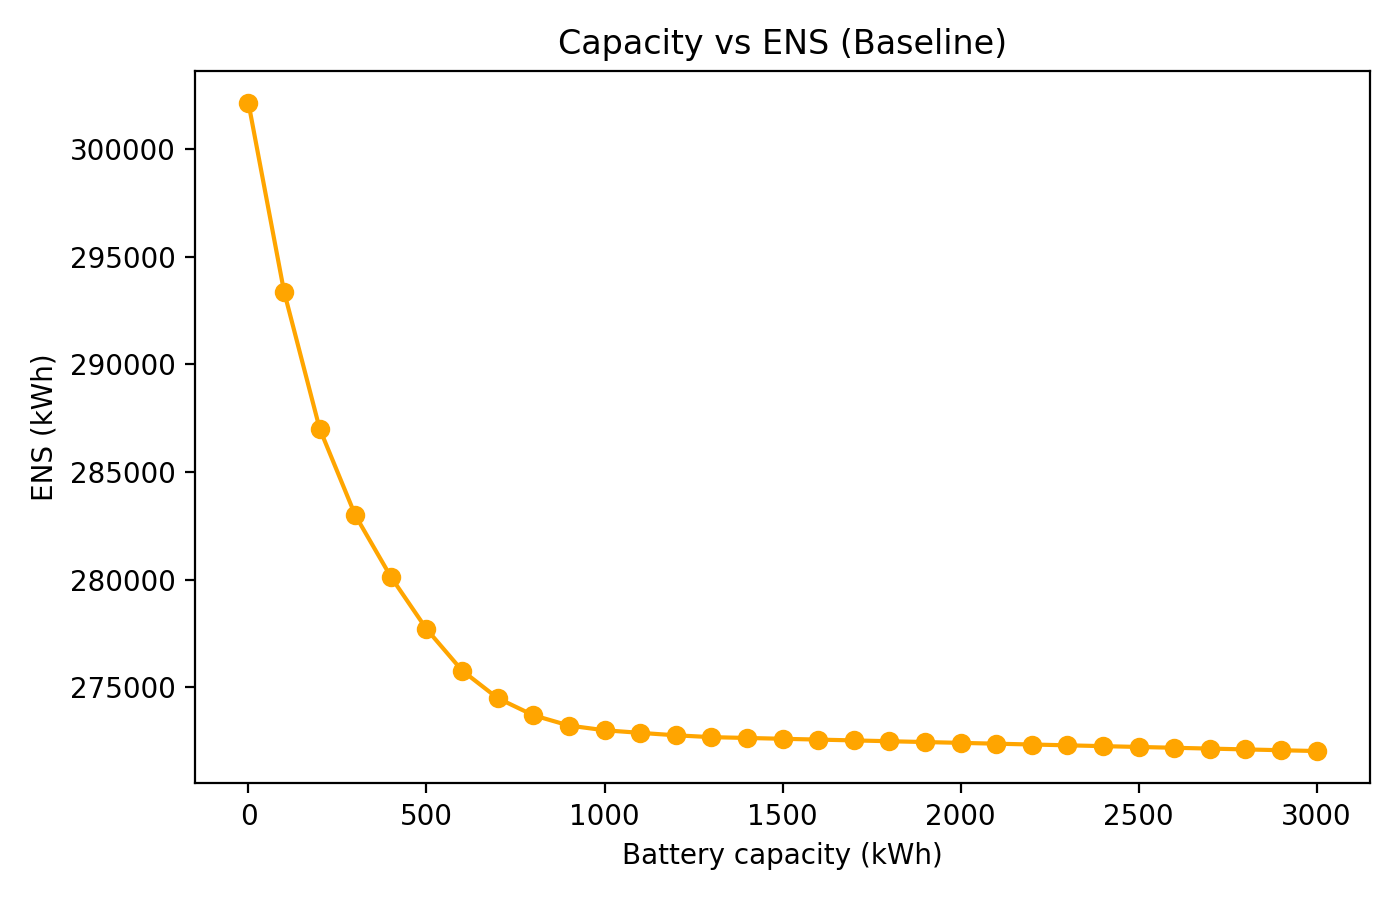
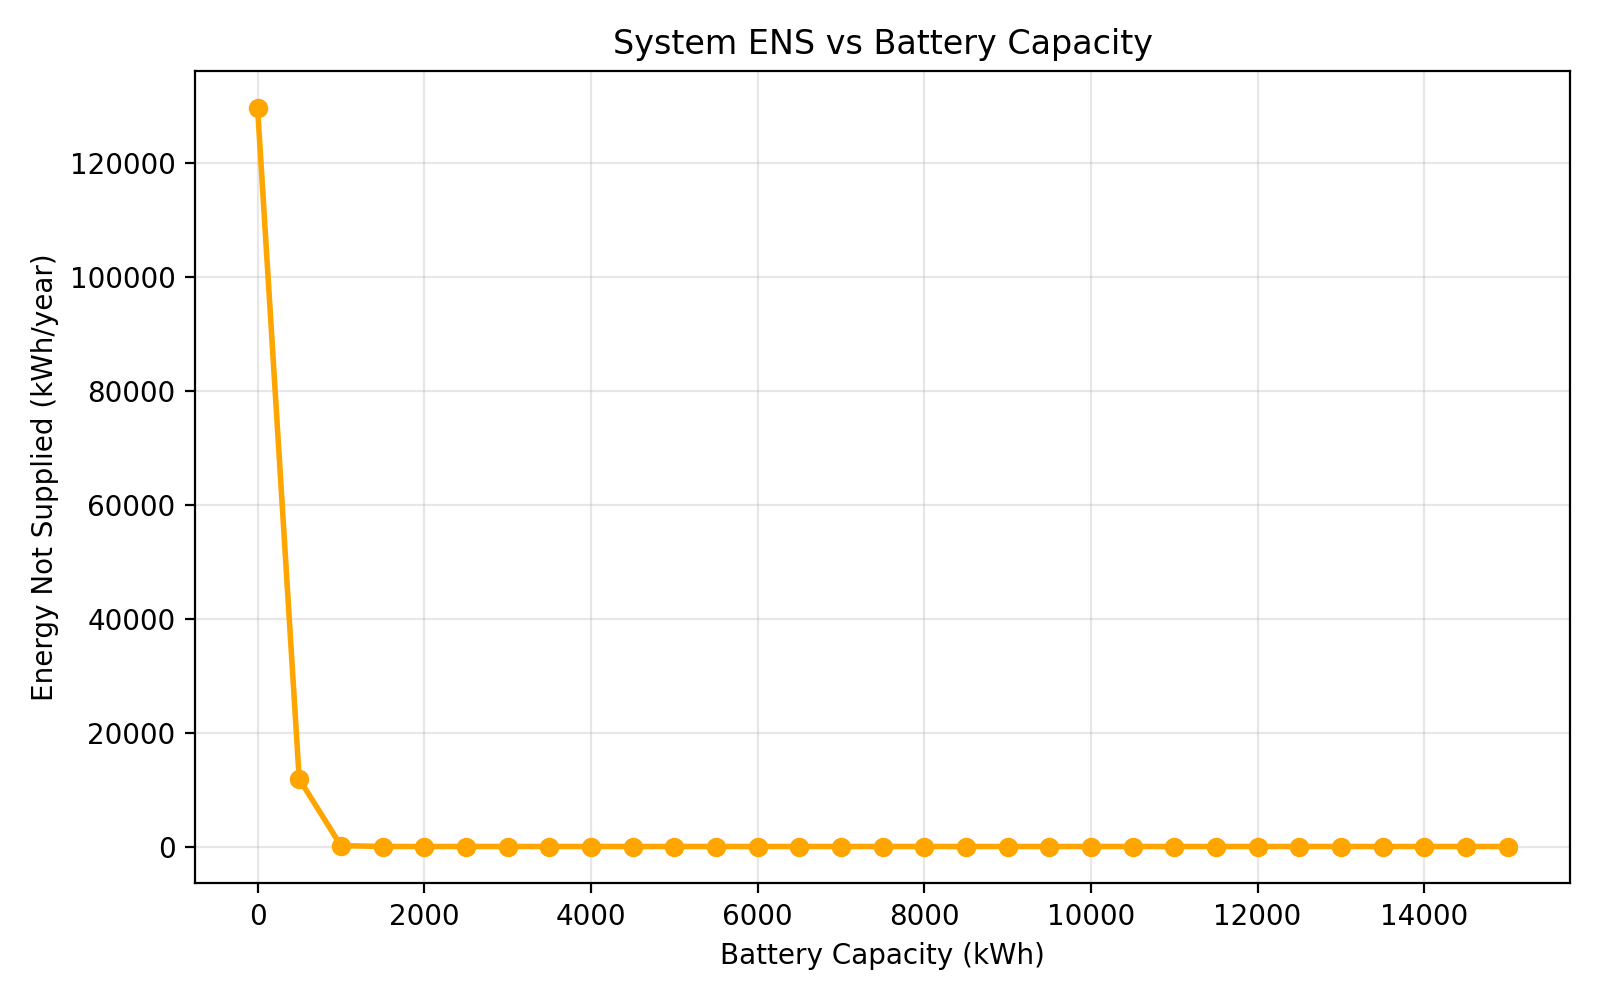
Fix: switch from NASA POWER to GovData weather + clean code (English only, minimal comments)

Changed region(s): [[0.0, 0.0311, 0.9829, 0.9644], [0.0307, 0.7156, 0.1536, 0.7778], [0.215, 0.4044, 0.2457, 0.5289]]

diff --git a/pv_battery_sizing.py b/pv_battery_sizing.py
@@ -3,181 +3,127 @@ import pandas as pd
 import matplotlib.pyplot as plt
 from pathlib import Path
 
-# =========================
-# 1) Config (edit here)
-# =========================
-# Use paths relative to project root
-WEATHER_CSV = "weather_data/nasa_power/nasa_power_merged_2025.csv"
+WEATHER_CSV = "weather_data/govdata/govdata_merged_2025.csv"
 LOAD_CSV    = "eplus_run/results/load_profiles/load_hourly_clean.csv"
 OUT_DIR     = "outputs"
 
-# PV parameters
-PV_CAP_KW = 500.0           # installed PV capacity
-GHI_REF = 1000.0            # W/m2
-TEMP_COEFF = -0.004         # per degC
+PV_CAP_KW = 5000.0
+GHI_REF = 1000.0
+TEMP_COEFF = -0.004
 TEMP_REF = 25.0
 
-# Battery parameters
 ETA_CH = 0.95
 ETA_DIS = 0.95
 SOC_MIN = 0.10
 SOC_MAX = 0.90
-P_CH_MAX_KW = 250.0
-P_DIS_MAX_KW = 250.0
-SOC0 = 0.50                  # initial SOC fraction
+P_CH_MAX_KW = 2500.0
+P_DIS_MAX_KW = 2500.0
+SOC0 = 0.50
 
-# Sizing target
 R_TARGET = 0.99
-CAPACITY_GRID = np.arange(0, 3001, 100)  # kWh
-
-# =========================
+CAPACITY_GRID = np.arange(0, 15001, 500)
 
 
 def load_inputs(weather_csv, load_csv):
-    """
-    Load weather and load data, merge them to hourly frequency.
-    
-    Weather data: daily from NASA POWER
-      - Column: ALLSKY_SFC_SW_DWN (MJ/m2/day) -> convert to GHI (W/m2) hourly
-      - Column: T2M (temperature in C)
-    
-    Load data: hourly from EnergyPlus results
-      - Column: load_kw
-    """
-    
-    # Load weather data
+    """Load weather (govdata, 2025) and load data, merge to hourly."""
     w = pd.read_csv(weather_csv)
     w["Date"] = pd.to_datetime(w["Date"])
     
-    # Normalize dates to start from 1900-01-01 to match load data virtual year
-    # Get unique dates and assign virtual dates
-    unique_dates = sorted(w["Date"].unique())
-    date_map = {old_date: pd.Timestamp("1900-01-01") + pd.Timedelta(days=i) 
-                for i, old_date in enumerate(unique_dates)}
-    w["Date_virtual"] = w["Date"].map(date_map)
+    l = pd.read_csv(load_csv)
+    l["datetime"] = pd.to_datetime(l["datetime"])
     
-    # Expand daily data to hourly by repeating 24 times per day
-    # and distribute GHI across 24 hours (average approach)
-    # First, get unique locations (LAT, LON) - if multiple, we'll average or pick one
+    l["day_of_year"] = l["datetime"].dt.dayofyear
+    l["hour_of_day"] = l["datetime"].dt.hour
+    l["datetime_2025"] = pd.to_datetime("2025-01-01") + pd.to_timedelta(l["day_of_year"] - 1, unit="D") + pd.to_timedelta(l["hour_of_day"], unit="h")
     
     w_hourly_list = []
-    
-    for (lat, lon), group in w.groupby(["LAT", "LON"]):
-        group = group.sort_values("Date_virtual").reset_index(drop=True)
+    for idx, row in w.iterrows():
+        date = row["Date"]
+        gsi_mj_per_day = row["KP_GSR"]
+        ghi_wh_per_day = (gsi_mj_per_day / 3.6) * 1000
         
         hourly_records = []
-        for _, row in group.iterrows():
-            date = row["Date_virtual"]
-            # Create 24 hourly records for this day
-            # Distribute daily GHI across 24 hours using a simple triangular profile
-            ghi_daily_mj = row["ALLSKY_SFC_SW_DWN"]  # MJ/m2/day
-            # Convert MJ/m2/day to daily integral: MJ/m2 * 1e6 J/MJ / 3600 s/h = (MJ/m2) * 277.78 Wh/m2
-            # Split into 24 hours with triangular profile: peak at noon, 0 at night
-            ghi_daily_wh = ghi_daily_mj * 277.78  # Wh/m2 per day
+        for h in range(24):
+            hour_dt = date + pd.Timedelta(hours=h)
+            if 6 <= h < 18:
+                hour_norm = (h - 6) / 12
+                profile = 2 * hour_norm if hour_norm <= 0.5 else 2 * (1 - hour_norm)
+                ghi_wh_this_hour = (ghi_wh_per_day / 6) * profile
+            else:
+                ghi_wh_this_hour = 0.0
             
-            for h in range(24):
-                hour_dt = date + pd.Timedelta(hours=h)
-                # Triangular GHI profile: 0 before 6am, peak at noon, 0 after 6pm
-                hour_of_day = h
-                if 6 <= hour_of_day <= 18:
-                    if hour_of_day < 12:
-                        profile_factor = (hour_of_day - 6) / 6  # 0 to 1 from 6am to noon
-                    else:
-                        profile_factor = (18 - hour_of_day) / 6  # 1 to 0 from noon to 6pm
-                    # Total daylight hours in profile: 12 hours (6am to 6pm)
-                    # With triangular: integral is 0.5 * 12 = 6 hour-equivalents
-                    ghi_this_hour = (ghi_daily_wh / 6) * profile_factor  # W/m2
-                else:
-                    ghi_this_hour = 0.0
-                
-                hourly_records.append({
-                    "datetime": hour_dt,
-                    "ghi": max(0, ghi_this_hour),
-                    "temp_air": row["T2M"]
-                })
+            hourly_records.append({
+                "datetime": hour_dt,
+                "ghi": max(0, ghi_wh_this_hour),
+                "temp_air": 23.0
+            })
         
         w_hourly_list.append(pd.DataFrame(hourly_records))
     
     if w_hourly_list:
         w_hourly = pd.concat(w_hourly_list, ignore_index=True)
-        # If multiple locations, average by datetime
-        w_hourly = w_hourly.groupby("datetime").agg({
-            "ghi": "mean",
-            "temp_air": "mean"
-        }).reset_index()
     else:
         w_hourly = pd.DataFrame(columns=["datetime", "ghi", "temp_air"])
     
-    # Load load data
-    l = pd.read_csv(load_csv)
-    l["datetime"] = pd.to_datetime(l["datetime"])
-    
-    # Merge on datetime
-    df = pd.merge(w_hourly, l, on="datetime", how="inner").sort_values("datetime").reset_index(drop=True)
+    w_hourly.rename(columns={"datetime": "datetime_2025"}, inplace=True)
+    df = pd.merge(w_hourly, l[["datetime_2025", "load_kw"]], on="datetime_2025", how="inner")
+    df.rename(columns={"datetime_2025": "datetime"}, inplace=True)
+    df = df.sort_values("datetime").reset_index(drop=True)
     df = df[["datetime", "ghi", "temp_air", "load_kw"]].copy()
     
-    # Basic cleaning
     df["ghi"] = df["ghi"].fillna(0).clip(lower=0)
     df["load_kw"] = df["load_kw"].fillna(df["load_kw"].mean()).clip(lower=0)
     df["temp_air"] = df["temp_air"].interpolate(limit_direction="both").fillna(df["temp_air"].mean())
-    
-    print(f"Loaded data: {len(df)} hourly records from {df['datetime'].min()} to {df['datetime'].max()}")
     
     return df
 
 
 def pv_power_kw(ghi, temp_air, pv_cap_kw, ghi_ref=1000, temp_coeff=-0.004, temp_ref=25):
-    # simple linear temperature correction
     p = pv_cap_kw * (ghi / ghi_ref) * (1 + temp_coeff * (temp_air - temp_ref))
     return np.clip(p, 0, pv_cap_kw)
 
 
 def simulate_once(df, batt_kwh):
     n = len(df)
-    dt = 1.0  # hour
-
+    dt = 1.0
+    
     e_min = SOC_MIN * batt_kwh
     e_max = SOC_MAX * batt_kwh
     e = SOC0 * batt_kwh if batt_kwh > 0 else 0.0
-
+    
     soc_series = np.zeros(n)
     unmet = np.zeros(n)
-
     pv = pv_power_kw(df["ghi"].values, df["temp_air"].values, PV_CAP_KW)
-
+    
     for t in range(n):
         load = df.at[t, "load_kw"]
-        net = pv[t] - load  # + surplus, - deficit
-
+        net = pv[t] - load
+        
         if net >= 0:
-            # charge
             ch_possible = min(net * dt, P_CH_MAX_KW * dt)
             headroom = max(0.0, e_max - e)
             ch = min(ch_possible * ETA_CH, headroom)
             e += ch
             unmet[t] = 0.0
         else:
-            # discharge
             deficit = (-net) * dt
-            dis_need_from_batt = min(deficit, P_DIS_MAX_KW * dt)
-            available_to_grid = max(0.0, (e - e_min) * ETA_DIS)
-            served = min(dis_need_from_batt, available_to_grid)
-
-            # battery energy drop
+            dis_need = min(deficit, P_DIS_MAX_KW * dt)
+            available = max(0.0, (e - e_min) * ETA_DIS) if batt_kwh > 0 else 0.0
+            served = min(dis_need, available)
+            
             if ETA_DIS > 0:
                 e -= served / ETA_DIS
-
-            unmet_energy = deficit - served
-            unmet[t] = max(0.0, unmet_energy)
-
+            
+            unmet[t] = max(0.0, deficit - served)
+        
         e = min(max(e, e_min if batt_kwh > 0 else 0.0), e_max if batt_kwh > 0 else 0.0)
         soc_series[t] = (e / batt_kwh) if batt_kwh > 0 else 0.0
-
+    
     total_load = (df["load_kw"].values * dt).sum()
     ens = unmet.sum()
     lolp = (unmet > 1e-9).mean()
     reliability = 1 - ens / total_load if total_load > 0 else 1.0
-
+    
     return {
         "reliability": reliability,
         "ens_kwh": ens,
@@ -192,9 +138,12 @@ def main():
     out = Path(OUT_DIR)
     out.mkdir(parents=True, exist_ok=True)
     (out / "figures").mkdir(parents=True, exist_ok=True)
-
+    
+    print("Loading data...")
     df = load_inputs(WEATHER_CSV, LOAD_CSV)
-
+    print(f"Data: {len(df)} hours, {df['datetime'].min().date()} to {df['datetime'].max().date()}")
+    
+    print("Running capacity scan...")
     rows = []
     for b in CAPACITY_GRID:
         res = simulate_once(df, batt_kwh=float(b))
@@ -204,60 +153,61 @@ def main():
             "ens_kwh": res["ens_kwh"],
             "lolp": res["lolp"]
         })
-
+    
     result_df = pd.DataFrame(rows)
     result_df.to_csv(out / "baseline_capacity_scan.csv", index=False)
-
-    # minimum feasible capacity
+    
     feasible = result_df[result_df["reliability"] >= R_TARGET]
     b_star = float(feasible["battery_kwh"].min()) if not feasible.empty else np.nan
-
-    # plot 1: capacity vs reliability
-    plt.figure(figsize=(7, 4.5))
-    plt.plot(result_df["battery_kwh"], result_df["reliability"], marker="o")
-    plt.axhline(R_TARGET, linestyle="--", label=f"Target ({R_TARGET})")
+    
+    plt.figure(figsize=(8, 5))
+    plt.plot(result_df["battery_kwh"], result_df["reliability"], marker="o", linewidth=2)
+    plt.axhline(R_TARGET, linestyle="--", color="red", label=f"Target ({R_TARGET:.0%})")
     if not np.isnan(b_star):
-        plt.axvline(b_star, linestyle=":", label=f"B* = {b_star:.0f} kWh")
-    plt.xlabel("Battery capacity (kWh)")
+        plt.axvline(b_star, linestyle=":", color="green", label=f"B* = {b_star:,.0f} kWh")
+    plt.xlabel("Battery Capacity (kWh)")
     plt.ylabel("Reliability")
-    plt.title("Capacity vs Reliability (Baseline)")
+    plt.title("System Reliability vs Battery Capacity")
+    plt.grid(True, alpha=0.3)
     plt.legend()
     plt.tight_layout()
     plt.savefig(out / "figures" / "capacity_vs_reliability.png", dpi=200)
     plt.close()
-
-    # plot 2: capacity vs ENS
-    plt.figure(figsize=(7, 4.5))
-    plt.plot(result_df["battery_kwh"], result_df["ens_kwh"], marker="o", color="orange")
-    plt.xlabel("Battery capacity (kWh)")
-    plt.ylabel("ENS (kWh)")
-    plt.title("Capacity vs ENS (Baseline)")
+    
+    plt.figure(figsize=(8, 5))
+    plt.plot(result_df["battery_kwh"], result_df["ens_kwh"], marker="o", color="orange", linewidth=2)
+    plt.xlabel("Battery Capacity (kWh)")
+    plt.ylabel("Energy Not Supplied (kWh/year)")
+    plt.title("System ENS vs Battery Capacity")
+    plt.grid(True, alpha=0.3)
     plt.tight_layout()
     plt.savefig(out / "figures" / "capacity_vs_ens.png", dpi=200)
     plt.close()
-
-    # run once at b_star for SOC example
+    
     if not np.isnan(b_star):
         res_star = simulate_once(df, batt_kwh=b_star)
         tmp = df.copy()
         tmp["soc"] = res_star["soc"]
         tmp_week = tmp.iloc[:24 * 7]
-
-        plt.figure(figsize=(8, 4))
-        plt.plot(tmp_week["datetime"], tmp_week["soc"], linewidth=2)
-        plt.xticks(rotation=30)
+        
+        plt.figure(figsize=(10, 4))
+        plt.plot(tmp_week["datetime"], tmp_week["soc"], linewidth=2, color="darkblue")
+        plt.fill_between(tmp_week["datetime"], 0, tmp_week["soc"], alpha=0.3, color="blue")
+        plt.xticks(rotation=45)
         plt.ylim(0, 1)
         plt.ylabel("SOC")
-        plt.xlabel("Time")
-        plt.title(f"SOC (First Week) at B*={b_star:.0f} kWh")
+        plt.xlabel("Date")
+        plt.title(f"Battery State of Charge (First Week, B*={b_star:,.0f} kWh)")
         plt.grid(True, alpha=0.3)
         plt.tight_layout()
         plt.savefig(out / "figures" / "soc_first_week.png", dpi=200)
         plt.close()
-
-    print("Done.")
-    print(f"Saved: {out / 'baseline_capacity_scan.csv'}")
-    print(f"Min battery capacity for target reliability ({R_TARGET}): {b_star} kWh")
+    
+    print(f"Results saved to {out / 'baseline_capacity_scan.csv'}")
+    if not np.isnan(b_star):
+        print(f"Minimum battery for {R_TARGET:.0%} reliability: {b_star:,.0f} kWh")
+    else:
+        print(f"Target reliability {R_TARGET:.0%} not achievable with given parameters")
 
 
 if __name__ == "__main__":
